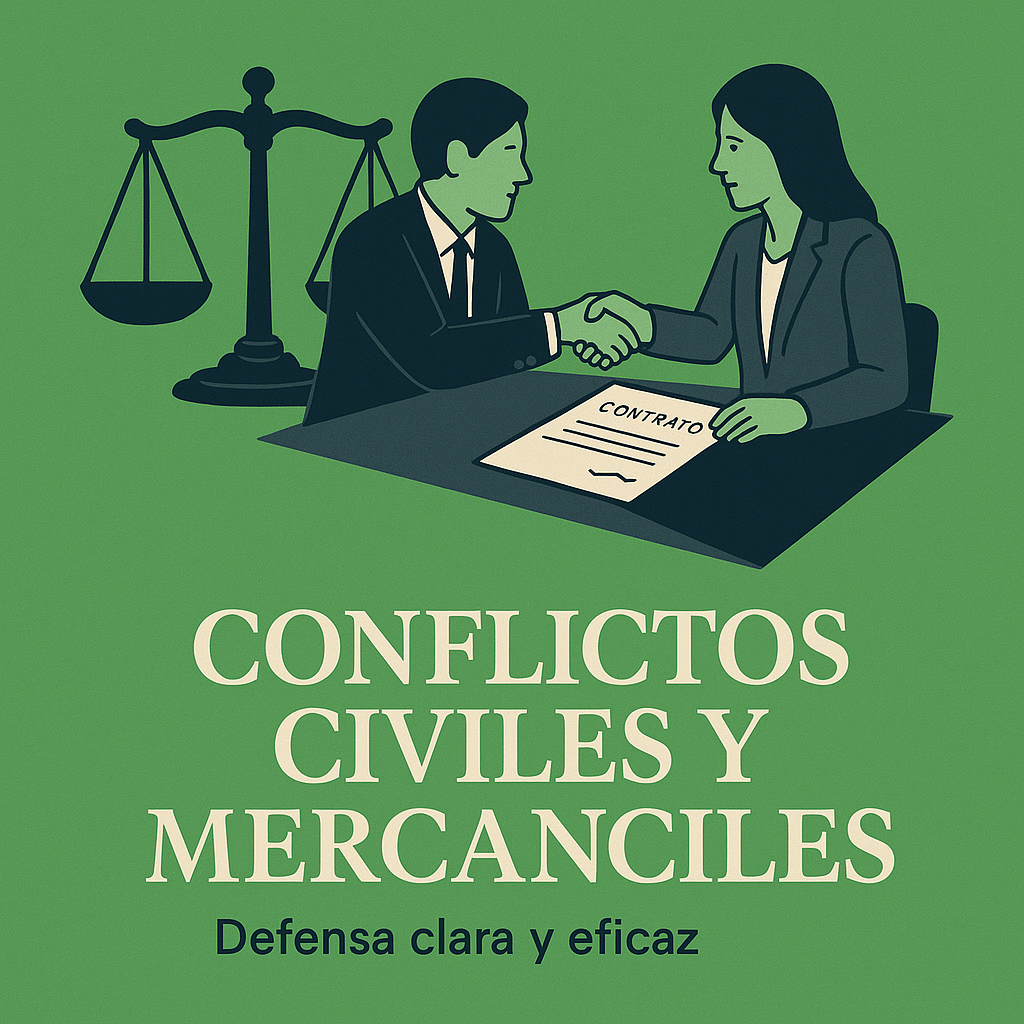
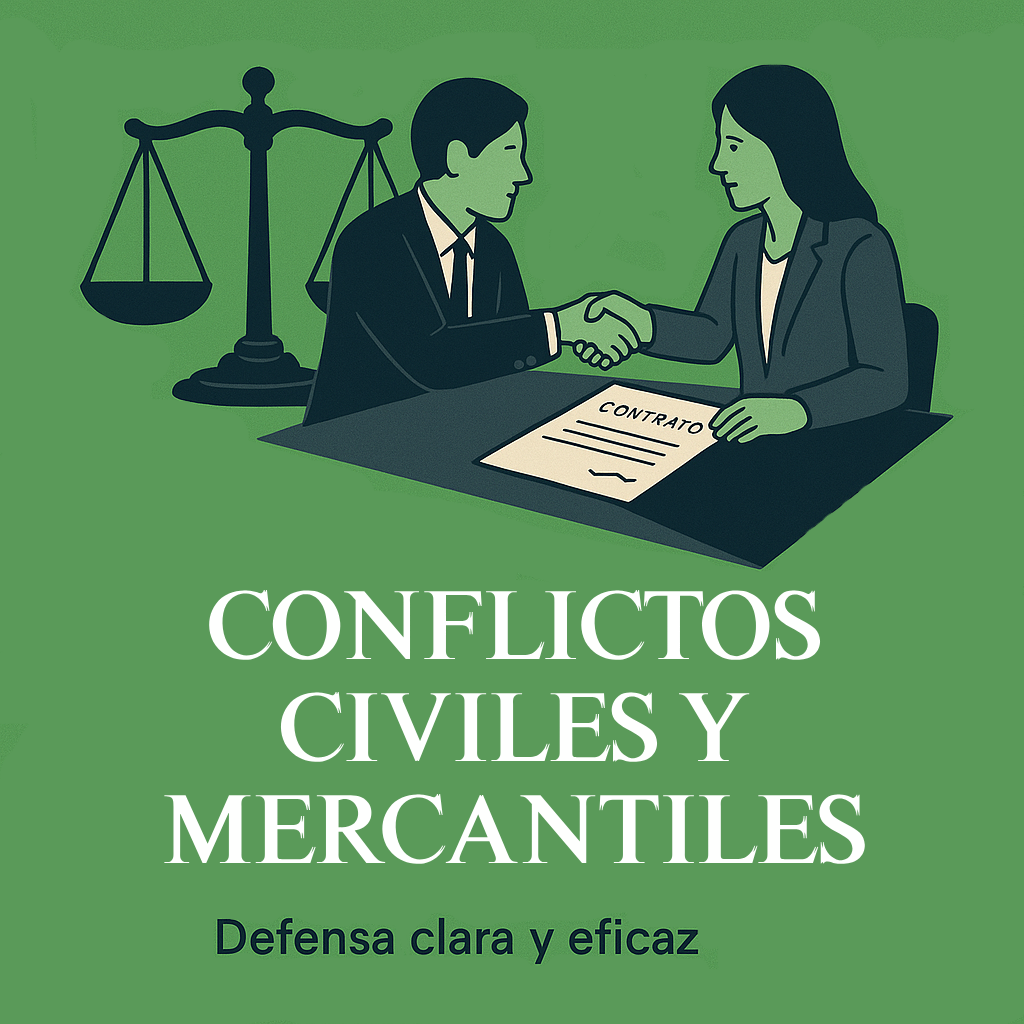
cambios...

Changed region(s): [[0.125, 0.5625, 0.875, 0.875]]

diff --git a/equipo.html b/equipo.html
@@ -25,7 +25,7 @@
 
         <!-- encabezado de la pagina web -->
         <header class="header__principal">
-            
+
             <img class="header__principal--logo" src="./imagenes/logoIndex.png" alt="Oficina de abogados">
             <button id="menu-toggle" class="btn__menu"><i class="fa-solid fa-bars"></i></button>
             <nav id="navbar" class="navbar">
@@ -70,11 +70,12 @@
             </div>
 
             <div class="abogado" id="f3">
-                <img src="./imagenes/equipo/abogada.jpg"
-                    alt="Abogado 2">
+                <img src="./imagenes/equipo/abogada.jpg" alt="Abogado 2">
 
                 <h3>Abg. Doménica Balarezo</h3>
-                <p>Doménica es abogada litigante, con conocimientos en procesos ejecutivos y de ejecución. Especializada en cobranzas, coactivas y derecho notarial. Diligente en trámites administrativos. Manejo de sistemas y páginas web de instituciones públicas para trámites registrales. </p>
+                <p>Doménica es abogada litigante, con conocimientos en procesos ejecutivos y de ejecución. Especializada
+                    en cobranzas, coactivas y derecho notarial. Diligente en trámites administrativos. Manejo de
+                    sistemas y páginas web de instituciones públicas para trámites registrales. </p>
                 <span class="abogado__correo"><i class="fa-solid fa-envelope"
                         style="color: #63E6BE;"></i>domenica.balarezo@atheneum.com.ec</span>
             </div>
@@ -83,7 +84,10 @@
                 <img src="imagenes/equipo/abogada.jpg" alt="Abogado 3">
 
                 <h3>Abg. Andrea Hidalgo</h3>
-                <p>Andrea es abogada con experiencia en procesos ejecutivos y de ejecución. Especializada en cobranzas, familia y derecho notarial. Ha ejercido la profesión en algunas provincias del país lo que le ha permitido un desarrollo con resultados favorables. Ejecutiva en cumplimiento de diligencias de secuestros y embargos. </p>
+                <p>Andrea es abogada con experiencia en procesos ejecutivos y de ejecución. Especializada en cobranzas,
+                    familia y derecho notarial. Ha ejercido la profesión en algunas provincias del país lo que le ha
+                    permitido un desarrollo con resultados favorables. Ejecutiva en cumplimiento de diligencias de
+                    secuestros y embargos. </p>
                 <span class="abogado__correo"><i class="fa-solid fa-envelope"
                         style="color: #63E6BE;"></i>andrea.hidalgo@atheneum.com.ec</span>
             </div>
@@ -92,7 +96,9 @@
                 <img src="imagenes/equipo/abogado.jpg" alt="Abogado 4">
 
                 <h3>Miguel Calvopiña</h3>
-                <p>Experto en contabilidad y tributación para optimizar recursos financieros. Asesor en derecho laboral, recursos humanos y nómina. Con una amplia trayectoria en la implementación de políticas laborales eficaces.</p>
+                <p>Experto en contabilidad y tributación para optimizar recursos financieros. Asesor en derecho laboral,
+                    recursos humanos y nómina. Con una amplia trayectoria en la implementación de políticas laborales
+                    eficaces.</p>
                 <span class="abogado__correo"><i class="fa-solid fa-envelope"
                         style="color: #63E6BE;"></i>miguel.calvopiña@atheneum.com.ec</span>
 
@@ -101,8 +107,9 @@
             <div class="abogado" id="f6">
                 <img src="imagenes/equipo/abogada.jpg" alt="Abogado 3">
 
-                <h3>Maíssa Jaramillo</h3>
-                <p>Asistente legal, revisión y despacho de procesos judiciales. Investigación, ubicación y realización de croquis para casos de cobranzas.</p>
+                <h3>Maíssa Jaramillo Mantilla</h3>
+                <p>Asistente legal, revisión y despacho de procesos judiciales. Investigación, ubicación y realización
+                    de croquis para casos de cobranzas.</p>
                 <span class="abogado__correo"><i class="fa-solid fa-envelope"
                         style="color: #63E6BE;"></i>maissa.jaramillo@atheneum.com.ec</span>
 
@@ -111,7 +118,8 @@
                 <img src="imagenes/equipo/abogado.jpg" alt="Abogado 3">
 
                 <h3>Oswaldo Salazar</h3>
-                <p>Administrador con responsabilidad de gestionar y supervisar operaciones diarias con conocimientos de logística a nivel nacional con estudios jurídicos.</p>
+                <p>Administrador con responsabilidad de gestionar y supervisar operaciones diarias con conocimientos de
+                    logística a nivel nacional con estudios jurídicos.</p>
                 <span class="abogado__correo"><i class="fa-solid fa-envelope"
                         style="color: #63E6BE;"></i>oswaldo.salazar@atheneum.com.ec </span>
 
@@ -144,13 +152,17 @@
                     </span>
                     <ul>
                         <li>+(02) 2550331</li>
+                        <li>+593-99-807-3745</li>
                         <li>+593-96-359-3072</li>
-                        <li>+593-99-251-9996</li>
                     </ul>
                 </div>
 
-                <i class="fa-solid fa-envelope" style="color: #63E6BE;"></i>Correo:
-                info@atheneum.com.ec
+                <div>
+                    <i class="fa-solid fa-envelope" style="color: #63E6BE;"></i>
+                    <span>
+                        Correo: diego.jaramillo@atheneum.com.ec
+                    </span>
+                </div>
 
             </div>
             <div class="container3">

diff --git a/index.html b/index.html
@@ -79,6 +79,17 @@
                         ofreciendo un servicio global y sistémico en las diferentes áreas del Derecho con resultados
                         favorables para sus clientes.
                     </p>
+                    <div class="title__container-mision">
+                        <span class="line-q"></span>
+                        <h2 class="title__container--h2">Nuestra Misión</h2>
+                        <span class="line-q"></span>
+                    </div>
+
+                    <p class="quienes__somos--pizq">
+                        Ser los protectores y los defensores de nuestros clientes manteniendo y garantizando la
+                        confidencialidad y privacidad de su información a través de las diferentes soluciones legales
+                        que ofrecemos
+                    </p>
                     <img class="quienes__somos--banner" src="imagenes/equipo/equipo.jpg"
                         alt="Fotografía del equipo de abogados">
                     <p class="quienes__somos--pder">
@@ -117,13 +128,17 @@
                 </span>
                 <ul>
                     <li>+(02) 2550331</li>
+                    <li>+593-99-807-3745</li>
                     <li>+593-96-359-3072</li>
-                    <li>+593-99-251-9996</li>
                 </ul>
             </div>
+            <div>
+                <i class="fa-solid fa-envelope" style="color: #63E6BE;"></i>
+                <span>
+                    Correo: diego.jaramillo@atheneum.com.ec
+                </span>
+            </div>
 
-            <i class="fa-solid fa-envelope" style="color: #63E6BE;"></i>Correo:
-            info@atheneum.com.ec
 
         </div>
         <div class="container3">

diff --git a/assets/css/servicios.css b/assets/css/servicios.css
@@ -392,7 +392,7 @@ body {
 }
 
 /* ===== DESKTOP: 1025px en adelante ===== */
-@media (min-width: 1025px) {
+@media (min-width: 1024px) {
   * {
     margin: 0;
     padding: 0;
@@ -569,7 +569,7 @@ body {
     content: "";
     position: absolute;
     bottom: 10px;
-    left: 14px;
+    left: 140px;
     height: 4px;
     width: 100%;
     background-color: var(--primary-color);
@@ -581,7 +581,7 @@ body {
     content: "";
     position: absolute;
     bottom: -10px;
-    left: 14px;
+    left: 140px;
     height: 4px;
     width: 100%;
     background-color: var(--primary-color);
@@ -603,7 +603,7 @@ body {
     content: "";
     position: absolute;
     bottom: 10px;
-    right: 14px;
+    right: 140px;
     height: 4px;
     width: 100%;
     background-color: var(--primary-color);
@@ -615,7 +615,7 @@ body {
     content: "";
     position: absolute;
     bottom: -10px;
-    right: 14px;
+    right: 140px;
     height: 4px;
     width: 100%;
     background-color: var(--primary-color);
@@ -804,7 +804,7 @@ body {
     left: 0px;
     width: 90%;
     height: 25%;
-    text-align: right;
+    text-align: left;
     background-color: rgb(192, 185, 185);
 
     font-size: clamp(13px, 1vw, 2rem);
@@ -821,7 +821,7 @@ body {
     right: 1%;
     width: 90%;
     height: 25%;
-    text-align: right;
+    text-align: left;
     background-color: rgb(192, 185, 185);
 
     font-size: clamp(13px, 1vw, 2rem);

diff --git a/contactenos.html b/contactenos.html
@@ -5,6 +5,7 @@
     <meta charset="UTF-8">
     <meta name="description" content="Abogados especializados en derecho civil, penal, laboral y administrativo.">
     <meta name="viewport" content="width=device-width, initial-scale=1.0">
+
     <!-- icono de la pagina -->
     <link rel="icon" href="/favicon.ico" type="image/x-icon">
     <link rel="stylesheet" href="https://cdnjs.cloudflare.com/ajax/libs/font-awesome/6.7.2/css/all.min.css"
@@ -69,13 +70,13 @@
 
                     <ul>
                         <li>+(02) 2550331</li>
+                        <li>+593-99-807-3745</li>
                         <li>+593-96-359-3072</li>
-                        <li>+593-99-251-9996</li>
                     </ul>
                     <div class="div__correo">
                         <i class="fa-solid fa-envelope" style="color: #63E6BE;"></i>
                         <span>
-                            Correo: info@atheneum.com.ec
+                            Correo: diego.jaramillo@atheneum.com.ec
                         </span>
                     </div>
 
@@ -112,6 +113,7 @@
         </footer>
     </div>
     <script src="/assets/js/menu.js"></script>
+
 </body>
 
 </html>

diff --git a/assets/css/index.css b/assets/css/index.css
@@ -303,6 +303,7 @@ body {
 }
 
 .quienes__somos--pizq {
+    background-color:rgb(192, 185, 185);
     display: flex;
     flex-direction: column;
     align-items: end;
@@ -328,6 +329,7 @@ body {
 }
 
 .quienes__somos--pder {
+    background-color:rgb(192, 185, 185);
     text-align: center;
     margin: 0 0 1em 0;
     padding: 0rem 2em;
@@ -586,7 +588,7 @@ body {
 }
 
 /* ===== DESKTOP: 1025px en adelante ===== */
-@media (min-width: 1025px) {
+@media (min-width: 1024px) {
     * {
         margin: 0;
         padding: 0;
@@ -778,12 +780,21 @@ body {
         display: flex;
         flex-direction: column;
     }
-
     .title__container {
         display: flex;
         flex-direction: row;
         align-items: center;
         color: #333;
+        width: 100%;
+    }
+
+    .title__container-mision {
+        display: flex;
+        flex-direction: row;
+        align-items: center;
+        color: #333;
+        width: 100%;
+        margin: 1.5rem 0rem;
     }
 
     .line-q {

diff --git a/assets/css/contacto.css b/assets/css/contacto.css
@@ -196,7 +196,7 @@ body {
 
 .div__correo {
   margin-top: 1rem;
-  font-size: 0.95rem;
+  font-size: 0.75rem;
 }
 
 .contacto img {
@@ -289,7 +289,7 @@ body {
 }
 
 /* ===== DESKTOP: 1025px en adelante ===== */
-@media (min-width: 1025px) {
+@media (min-width: 1024px) {
 
   html,
   body {
@@ -388,7 +388,7 @@ body {
   .contacto {
     flex: 1;
     display: grid;
-    grid-template-columns: repeat(3, 1fr);
+    grid-template-columns: 1fr 30% 1fr;
     align-items: center;
     justify-content: space-around;
   }
@@ -400,8 +400,11 @@ body {
   .informacion {
     width: 33.33vw;
     position: relative;
+    padding: 0.5rem;
   }
-
+  .div__correo {
+    font-size: clamp(0.85rem,1vw,2rem);
+  }
   .informacion::after {
     content: "";
     position: absolute;

diff --git a/servicios.html b/servicios.html
@@ -207,13 +207,17 @@
                     </span>
                     <ul>
                         <li>+(02) 2550331</li>
+                        <li>+593-99-807-3745</li>
                         <li>+593-96-359-3072</li>
-                        <li>+593-99-251-9996</li>
                     </ul>
                 </div>
 
-                <i class="fa-solid fa-envelope" style="color: #63E6BE;"></i>Correo:
-                info@atheneum.com.ec
+                <div>
+                    <i class="fa-solid fa-envelope" style="color: #63E6BE;"></i>
+                    <span>
+                        Correo: diego.jaramillo@atheneum.com.ec
+                    </span>
+                </div>
 
             </div>
             <div class="container3">

diff --git a/assets/css/equipo.css b/assets/css/equipo.css
@@ -455,7 +455,7 @@ body {
 }
 
 /* ===== DESKTOP: 1025px en adelante ===== */
-@media (min-width: 1025px) {
+@media (min-width: 1024px) {
   * {
     margin: 0;
     padding: 0;
